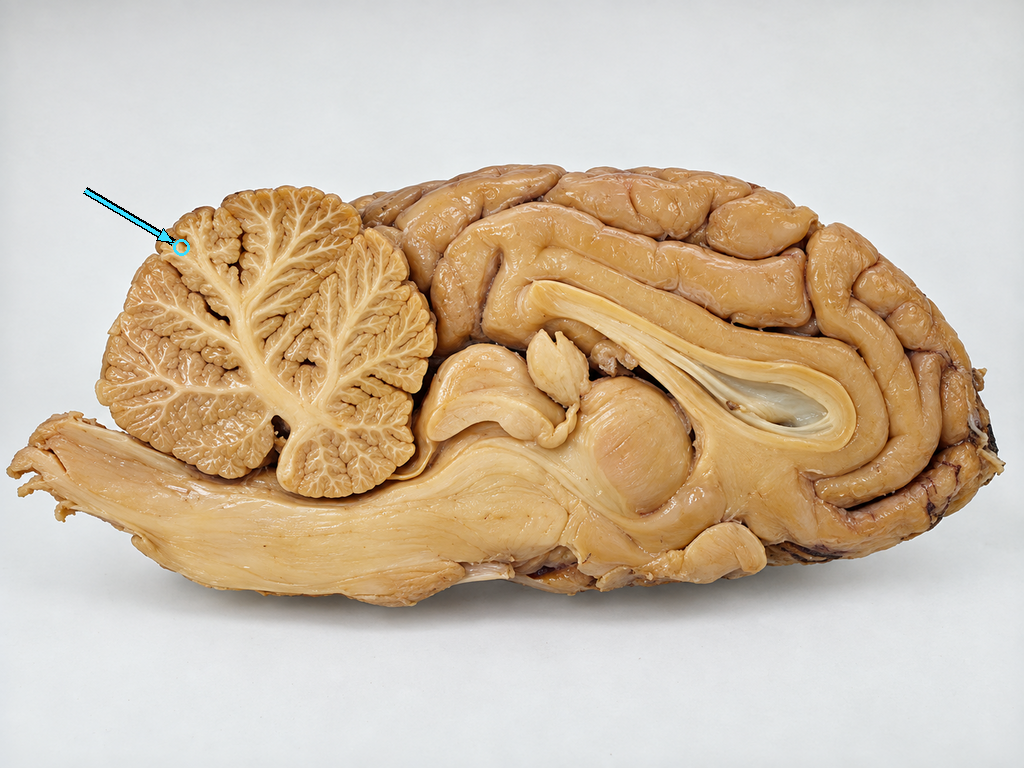
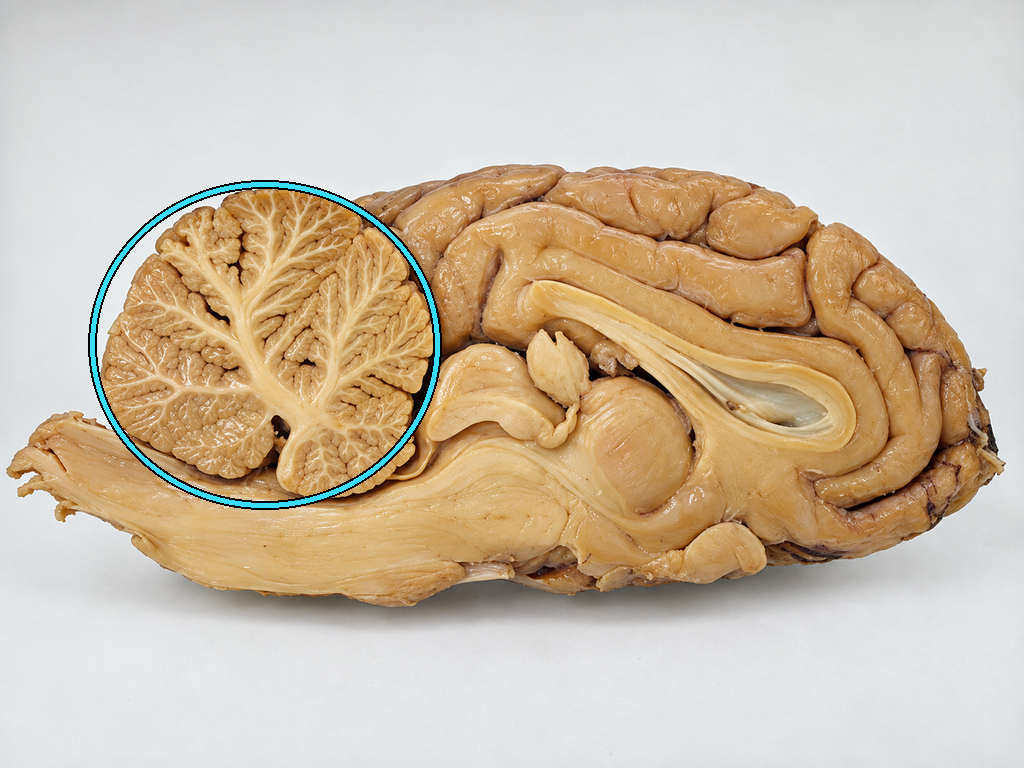
Circle the whole cerebellum separately from arbor vitae branching

diff --git a/tests/sheep-brain.test.js b/tests/sheep-brain.test.js
@@ -26,5 +26,5 @@ test('all sheep brain pictures attach in both modes and answers tolerate case an
 test('colliculi have distinct targets and arbor vitae marks branching separately from outer cerebellum',()=>{
  const byName=n=>data.models.find(m=>m.name===n).annotation;
  assert.ok(byName('Superior colliculus').tip[1]<byName('Inferior colliculus').tip[1]);
- assert.equal(byName('Arbor vitae').kind,'line');assert.notDeepEqual(byName('Arbor vitae').points[0],byName('Cerebellum').tip);
+ assert.equal(byName('Arbor vitae').kind,'line');assert.equal(byName('Cerebellum').kind,'ellipse');assert.deepEqual(byName('Cerebellum').bounds,[88,180,441,509]);
 });
